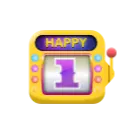
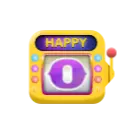
完善IM功能

Changed region(s): [[0.3284, 0.4179, 0.6567, 0.6866], [0.6866, 0.6567, 0.7164, 0.6866], [0.4776, 0.4179, 0.5075, 0.4478]]

diff --git a/Base/IMSDK/TimInterface.cpp b/Base/IMSDK/TimInterface.cpp
@@ -126,21 +126,12 @@ void TimInterface::getMSGTojson(QByteArray json_msg_array)
     // 解析JSON消息数组
     QJsonParseError error;
     QJsonDocument json_doc = QJsonDocument::fromJson(json_msg_array, &error);
-
     if (json_doc.isNull())
-    {
-        qDebug() << "JSON parse failure:" << error.errorString();
         return;
-    }
-
     if (!json_doc.isArray())
-    {
-        qDebug() << "Expected JSON array but got something else";
         return;
-    }
 
     QJsonArray json_array_msgs = json_doc.array();
-
     // 遍历消息
     for (const QJsonValue& json_value_msg : json_array_msgs)
     {
@@ -156,69 +147,111 @@ void TimInterface::getMSGTojson(QByteArray json_msg_array)
             if (!elem_value.isObject())
                 continue;
 
+            QString str_content = msg_obj["message_cloud_custom_str"].toString();
+            QJsonObject str_doc = QJsonDocument::fromJson(str_content.toLatin1()).object();
+
+            //收集发送者的信息
+            QJsonObject user_doc = str_doc["user"].toObject();
+            m_user_info.insert("name", user_doc["name"].toString());
+            m_user_info.insert("photo", user_doc["photo"].toString());
+            m_user_info.insert("userId", user_doc["userId"].toString());
+
+
             QJsonObject elem = elem_value.toObject();
             uint32_t elem_type = elem["elem_type"].toInt();
-
-            QString content = elem[kTIMTextElemContent].toString();//内容
-
             switch (elem_type) {
             case TIMElemType::kTIMElem_Text:  // 文本
             {
                 // 处理文本消息
-                qDebug()<<tr("文本消息---") + content;
-                break;
-            }
+                QString content = elem[kTIMTextElemContent].toString();//内容
 
-            case TIMElemType::kTIMElem_Sound:  // 声音
-                qDebug()<<tr("声音---") + content;
-                // 处理声音消息
-                break;
+                qDebug()<<tr("文本消息---") + content.toUtf8();
 
-            case TIMElemType::kTIMElem_File:  // 文件
-                qDebug()<<tr("文件---") + content;
-                // 处理文件消息
-                break;
+                if("groupMsg" == str_doc["tximMsgType"].toString())
+                {
+                    QJsonObject message_ob = str_doc["message"].toObject();
+                    int type = message_ob["type"].toInt();
+                    qDebug()<<"type---"<<type;
 
-            case TIMElemType::kTIMElem_Image:  // 图片
-                qDebug()<<tr("图片---") + content;
-                // 处理图片消息
+                }
                 break;
+            }           
 
             case TIMElemType::kTIMElem_Custom:
-            {
-                QString str_content = msg_obj["message_cloud_custom_str"].toString();
-                QJsonObject str_doc = QJsonDocument::fromJson(str_content.toLatin1()).object();
+            {                
                 if("groupMsg" == str_doc["tximMsgType"].toString())
                 {
                     //TODO 这里处理自定义信息
-                    qDebug()<<tr("groupMsg---");
+                    QJsonObject message_ob = str_doc["message"].toObject();
+                    int type = message_ob["type"].toInt();
+                    qDebug()<<"type---"<<type;
+                    qDebug()<<"body = "<<message_ob["body"];
+
+                    switch (type) {
+                    case 8://爆灯
+                    {
+                        QString imagePath = ":/images/emotion/vc_emoji_2.png";
+                        emit msg_emotion(imagePath);
+                        break;
+                    }
+                    case 9://9 emjio表情单图
+                    {
+                        int emotion_num = message_ob["body"].toString().right(3).toInt() + 1;
+                        QString imagePath = ":/images/emotion/vc_emoji_" + QString::number(emotion_num) + ".png";
+                        emit msg_emotion(imagePath);
+                        break;
+                    }
+                    case 10://10 骰子
+                    {
+                        int num = message_ob["body"].toString().toInt();
+                        QString imagePath = ":/images/emotion/icon_dice_" +QString::number(num) + ".png";
+                        emit msg_dice(imagePath);
+                        break;
+                    }
+                    case 11://11 划拳
+                    {
+                        int num = message_ob["body"].toString().toInt();
+                        QString imagePath = ":/images/emotion/icon_finger_" +QString::number(num) + ".png";
+                        emit msg_finger(imagePath);
+                        break;
+                    }
+                    case 12://12 操作类型消息（例如：主持将xxx抱上麦。显示样式与普通消息一样，只是文本颜色不一样），
+                    {
+                        break;
+                    }
+                    case 13://*13 通知类型消息（例如：xxx来了。无需显示发送者头像，需要显示用户等级）
+                    {
+                        break;
+                    }
+                    case 15://*15. 用户等级提升提示 （例如：恭喜 xxx 等级提升到多少级）
+                    {
+                        break;
+                    }
+                    case 16://*16：pk通知
+                    {
+                        break;
+                    }
+                    case 17://*17：vip表情
+                    {
+                        break;
+                    }
+                    case 18://麦味机
+                    {
+                        int num = message_ob["body"].toString().toInt();
+                        QString imagePath = ":/images/emotion/icon_mic_" +QString::number(num) + ".png";
+                        emit msg_dice(imagePath);
+                        break;
+                    }
+                    default:
+                        break;
+                    }
                 }
                 break;
             }
             case TIMElemType::kTIMElem_GroupTips:  // 群组系统消息
-            {
-                qDebug()<<tr("群组系统消息1---") + content;
+            {                
                 break;
-            }
-            case TIMElemType::kTIMElem_Face:  // 表情
-                qDebug()<<tr("表情---") + content;
-                // 处理表情消息
-                break;
-
-            case TIMElemType::kTIMElem_Location:  // 位置
-                qDebug()<<tr("位置---") + content;
-                // 处理位置消息
-                break;
-
-            case TIMElemType::kTIMElem_GroupReport:  // 群组系统通知
-                qDebug()<<tr("群组系统通知2---")+content;
-                // 处理群组通知
-                break;
-
-            case TIMElemType::kTIMElem_Video:  // 视频
-                qDebug()<<tr("视频---") + content;
-                // 处理视频消息
-                break;
+            }          
 
             default:
                 qDebug() << "Unknown message element type:" << elem_type;

diff --git a/Base/IMSDK/TimInterface.h b/Base/IMSDK/TimInterface.h
@@ -32,13 +32,21 @@ public:
     /*-----------群组相关-----------*/
     //加入群组
     void groupJoin(const char* group_id);
-
     //解析消息
     void getMSGTojson(QByteArray msg);
 
 signals:
     void loginStatus(int,QString);
     void newMes();
+
+    void msg_emotion(QString);//纯表情
+    void msg_txt(QString);//文字
+    void msg_dice(QString);//骰子
+    void msg_finger(QString);//猜拳
+    void msg_mic(QString);//猜拳
+
+private:
+    QVariantMap m_user_info; //消息发送者的信息
 
 };
 

diff --git a/UI/mainwindow.cpp b/UI/mainwindow.cpp
@@ -10,9 +10,8 @@ MainWindow::MainWindow(QWidget *parent)
     : QMainWindow(parent)
     , ui(new Ui::MainWindow)
 {
-    ui->setupUi(this);    
+    ui->setupUi(this);
 
-#ifndef NO
     LoginPage *login = new LoginPage;
     if(login->exec() == QDialog::Accepted)
     {
@@ -22,7 +21,7 @@ MainWindow::MainWindow(QWidget *parent)
     {
         exit(0);
     }
-#endif
+
 }
 
 MainWindow::~MainWindow()
